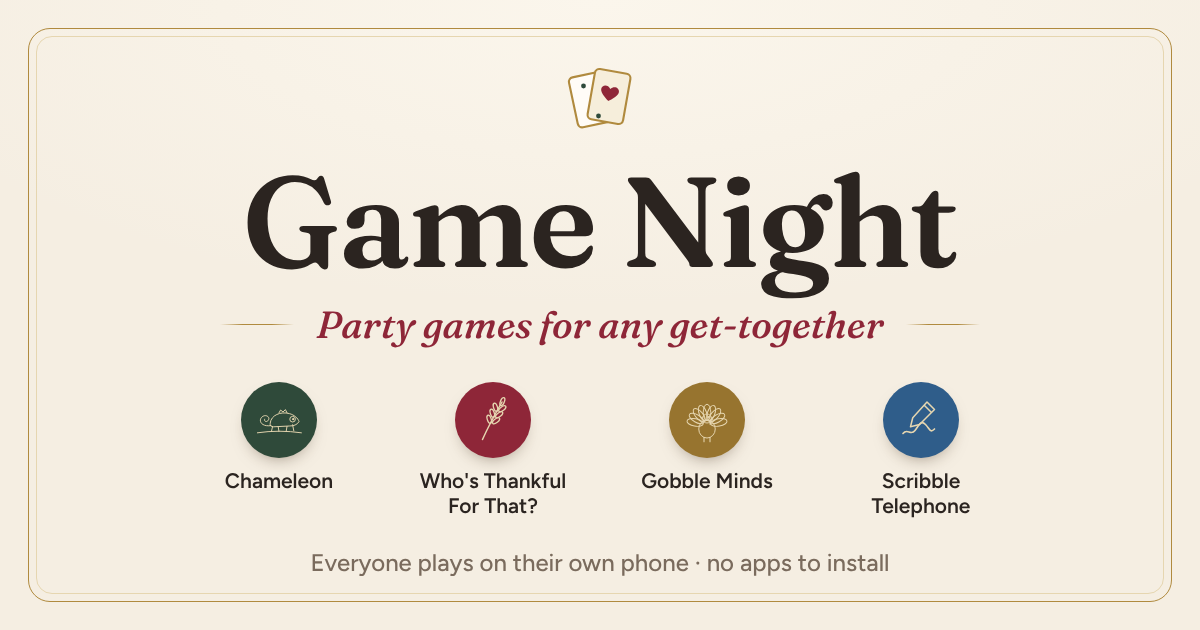
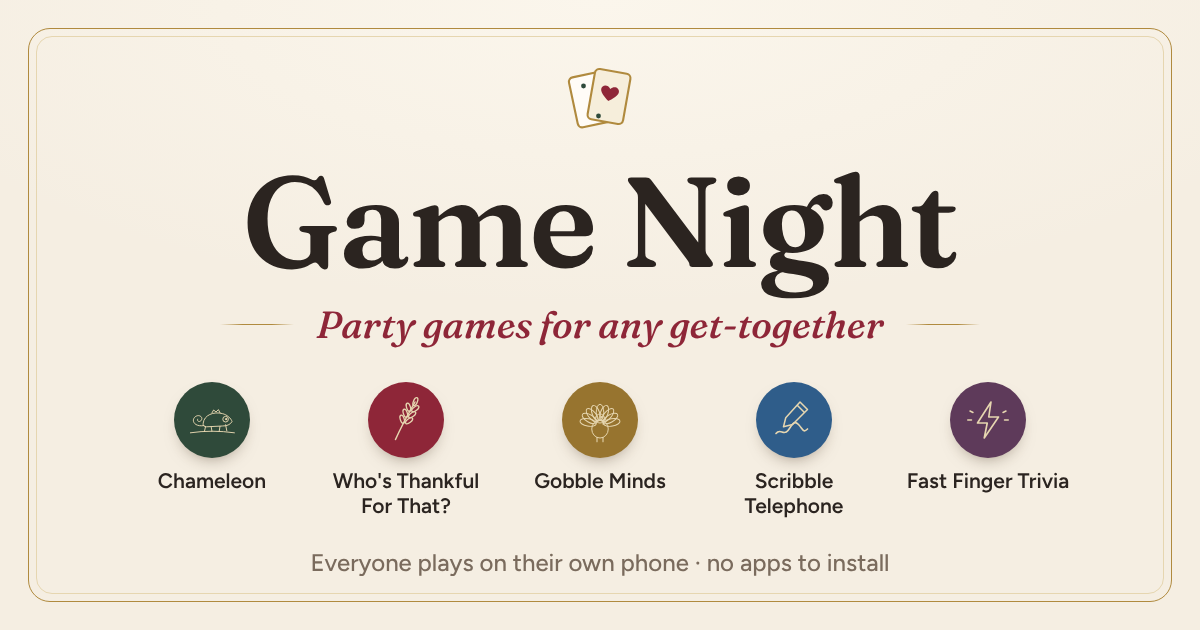
Add Fast Finger Trivia to the menu and share image; update Scribble steps
Claude-Session: https://claude.ai/code/session_019EJvb86wNSFAiyBU6UiAxT

Changed region(s): [[0.1233, 0.6032, 0.8942, 0.8143]]

diff --git a/index.html b/index.html
@@ -17,7 +17,7 @@
 <meta property="og:image" content="https://mburleson33.github.io/games/og.png">
 <meta property="og:image:width" content="1200">
 <meta property="og:image:height" content="630">
-<meta property="og:image:alt" content="Game Night: Chameleon, Who's Thankful For That?, Gobble Minds and Scribble Telephone">
+<meta property="og:image:alt" content="Game Night: Chameleon, Who's Thankful For That?, Gobble Minds, Scribble Telephone and Fast Finger Trivia">
 <meta name="twitter:card" content="summary_large_image">
 <meta name="twitter:title" content="Game Night">
 <meta name="twitter:description" content="Party games for any get-together. Everyone plays on their own phone.">
@@ -158,7 +158,7 @@ details.g li::marker{color:var(--gold);font-family:var(--serif);font-weight:600}
 {
 const $=id=>document.getElementById(id);
 const esc=t=>String(t).replace(/[&<>"']/g,c=>({"&":"&amp;","<":"&lt;",">":"&gt;",'"':"&quot;","'":"&#39;"}[c]));
-const GAMES=[{"name": "Chameleon", "color": "#2f4a3a", "mark": "<svg viewBox=\"0 0 120 84\"><g stroke=\"#e6d6b0\" stroke-width=\"2.4\" stroke-linecap=\"round\" stroke-linejoin=\"round\" fill=\"none\"><path d=\"M6 74 Q60 66 116 74\"/><path d=\"M44 58 L41 71 M58 59 L60 71 M80 58 L78 70 M94 54 L97 69\"/><path d=\"M40 56 C14 60 8 42 18 34 C28 26 40 36 32 44 C28 48 22 45 24 40\"/><path d=\"M38 50 C40 30 64 20 86 26 C98 29 108 38 110 46 C106 54 96 57 86 57 L46 59 C40 59 37 56 38 50Z\"/><path d=\"M60 24 L64 17 L70 22 L76 16 L80 24\"/><circle cx=\"94\" cy=\"40\" r=\"7\"/><\/g><circle cx=\"95.5\" cy=\"40\" r=\"2.8\" fill=\"#e6d6b0\"/><\/svg>", "tag": "Everyone knows the secret word except one bluffer.", "chips": ["3–20 players", "10–20 min", "Everyone's phone"], "steps": ["One person hosts and reads out a 4-letter code. Everyone joins with it.", "Press and hold your card to see the secret word. The chameleon only sees the category.", "Go around the circle giving one-word clues, then point at who you think is bluffing."]}, {"name": "Who's Thankful For That?", "color": "#8e2638", "mark": "<svg viewBox=\"0 0 64 64\"><path d=\"M44 8C36 22 26 40 18 58\" fill=\"none\" stroke=\"#e6d6b0\" stroke-width=\"2\" stroke-linecap=\"round\"/><g fill=\"none\" stroke=\"#e6d6b0\" stroke-width=\"1.8\"><ellipse cx=\"44.5\" cy=\"7.5\" rx=\"2.6\" ry=\"5.6\" transform=\"rotate(22 44.5 7.5)\"/><ellipse cx=\"35.3\" cy=\"15\" rx=\"2.6\" ry=\"5.6\" transform=\"rotate(-18 35.3 15)\"/><ellipse cx=\"44.4\" cy=\"17\" rx=\"2.6\" ry=\"5.6\" transform=\"rotate(52 44.4 17)\"/><ellipse cx=\"31.1\" cy=\"23\" rx=\"2.6\" ry=\"5.6\" transform=\"rotate(-18 31.1 23)\"/><ellipse cx=\"40.2\" cy=\"25\" rx=\"2.6\" ry=\"5.6\" transform=\"rotate(52 40.2 25)\"/><ellipse cx=\"27\" cy=\"31\" rx=\"2.6\" ry=\"5.6\" transform=\"rotate(-18 27 31)\"/><ellipse cx=\"36.1\" cy=\"33\" rx=\"2.6\" ry=\"5.6\" transform=\"rotate(52 36.1 33)\"/><\/g><\/svg>", "tag": "Write what you're thankful for, then guess who wrote each one.", "chips": ["2+ players", "15–25 min", "Everyone's phone", "TV mode"], "steps": ["The host picks a prompt, like \"a small, everyday thing.\"", "Everyone secretly writes one answer on their phone.", "Answers are revealed one at a time. Vote on who wrote it, then hear why it matters to them."]}, {"name": "Gobble Minds", "color": "#97742f", "mark": "<svg viewBox=\"0 0 64 64\"><g stroke=\"#e6d6b0\" stroke-width=\"1.3\" stroke-linejoin=\"round\"><ellipse cx=\"16.2\" cy=\"35.2\" rx=\"5\" ry=\"11\" transform=\"rotate(-80 16.2 35.2)\" fill=\"none\"/><ellipse cx=\"18.1\" cy=\"30.0\" rx=\"5\" ry=\"11\" transform=\"rotate(-60 18.1 30.0)\" fill=\"none\"/><ellipse cx=\"21.7\" cy=\"25.7\" rx=\"5\" ry=\"11\" transform=\"rotate(-40 21.7 25.7)\" fill=\"none\"/><ellipse cx=\"26.5\" cy=\"23.0\" rx=\"5\" ry=\"11\" transform=\"rotate(-20 26.5 23.0)\" fill=\"none\"/><ellipse cx=\"32.0\" cy=\"22.0\" rx=\"5\" ry=\"11\" transform=\"rotate(0 32.0 22.0)\" fill=\"none\"/><ellipse cx=\"37.5\" cy=\"23.0\" rx=\"5\" ry=\"11\" transform=\"rotate(20 37.5 23.0)\" fill=\"none\"/><ellipse cx=\"42.3\" cy=\"25.7\" rx=\"5\" ry=\"11\" transform=\"rotate(40 42.3 25.7)\" fill=\"none\"/><ellipse cx=\"45.9\" cy=\"30.0\" rx=\"5\" ry=\"11\" transform=\"rotate(60 45.9 30.0)\" fill=\"none\"/><ellipse cx=\"47.8\" cy=\"35.2\" rx=\"5\" ry=\"11\" transform=\"rotate(80 47.8 35.2)\" fill=\"none\"/><ellipse cx=\"32\" cy=\"44\" rx=\"11\" ry=\"12\" fill=\"none\"/><circle cx=\"32\" cy=\"30\" r=\"6\" fill=\"none\"/><\/g><path d=\"M37 30l4 1.5-4 1.5z\" fill=\"#e6d6b0\"/><path d=\"M36 33c2 2 2 5 0 6-1-2-1-4 0-6z\" fill=\"#e6d6b0\"/><circle cx=\"34\" cy=\"28\" r=\"1.2\" fill=\"#e6d6b0\"/><path d=\"M28 55v6M36 55v6\" stroke=\"#e6d6b0\" stroke-width=\"1.4\" stroke-linecap=\"round\"/><\/svg>", "tag": "Think like the table, or be the Odd Bird nobody matches.", "chips": ["3+ players", "15–30 min", "Everyone's phone", "TV mode"], "steps": ["The host picks a mode: match the table, or Odd Bird (be the only one).", "Everyone answers the same prompt, like \"Name a pie,\" in secret.", "The host merges matching answers, then scores. Watch out for the turkey!"]}, {"name": "Scribble Telephone", "color": "#2f5d8a", "mark": "<svg viewBox=\"0 0 64 64\"><path d=\"M8 50c6-8 10 4 16-4s8-14 14-8 6 12 12 6\" fill=\"none\" stroke=\"#e6d6b0\" stroke-width=\"2.2\" stroke-linecap=\"round\"/><g stroke=\"#e6d6b0\" stroke-width=\"2\" stroke-linejoin=\"round\" fill=\"none\"><path d=\"M40 8l10 10-20 20-12 3 3-12z\"/><path d=\"M36 12l10 10\"/><\/g><\/svg>", "tag": "Draw it, guess it, pass it on, and watch it all go wrong.", "chips": ["3+ players", "15–25 min", "Everyone's phone", "TV mode"], "steps": ["Everyone writes a short phrase to start their own chain.", "Phones pass each chain along: the next person draws it, the next guesses the drawing.", "The host reveals every chain step by step. Best with a TV!"]}];
+const GAMES=[{"name": "Chameleon", "color": "#2f4a3a", "mark": "<svg viewBox=\"0 0 120 84\"><g stroke=\"#e6d6b0\" stroke-width=\"2.4\" stroke-linecap=\"round\" stroke-linejoin=\"round\" fill=\"none\"><path d=\"M6 74 Q60 66 116 74\"/><path d=\"M44 58 L41 71 M58 59 L60 71 M80 58 L78 70 M94 54 L97 69\"/><path d=\"M40 56 C14 60 8 42 18 34 C28 26 40 36 32 44 C28 48 22 45 24 40\"/><path d=\"M38 50 C40 30 64 20 86 26 C98 29 108 38 110 46 C106 54 96 57 86 57 L46 59 C40 59 37 56 38 50Z\"/><path d=\"M60 24 L64 17 L70 22 L76 16 L80 24\"/><circle cx=\"94\" cy=\"40\" r=\"7\"/><\/g><circle cx=\"95.5\" cy=\"40\" r=\"2.8\" fill=\"#e6d6b0\"/><\/svg>", "tag": "Everyone knows the secret word except one bluffer.", "chips": ["3–20 players", "10–20 min", "Everyone's phone"], "steps": ["One person hosts and reads out a 4-letter code. Everyone joins with it.", "Press and hold your card to see the secret word. The chameleon only sees the category.", "Go around the circle giving one-word clues, then point at who you think is bluffing."]}, {"name": "Who's Thankful For That?", "color": "#8e2638", "mark": "<svg viewBox=\"0 0 64 64\"><path d=\"M44 8C36 22 26 40 18 58\" fill=\"none\" stroke=\"#e6d6b0\" stroke-width=\"2\" stroke-linecap=\"round\"/><g fill=\"none\" stroke=\"#e6d6b0\" stroke-width=\"1.8\"><ellipse cx=\"44.5\" cy=\"7.5\" rx=\"2.6\" ry=\"5.6\" transform=\"rotate(22 44.5 7.5)\"/><ellipse cx=\"35.3\" cy=\"15\" rx=\"2.6\" ry=\"5.6\" transform=\"rotate(-18 35.3 15)\"/><ellipse cx=\"44.4\" cy=\"17\" rx=\"2.6\" ry=\"5.6\" transform=\"rotate(52 44.4 17)\"/><ellipse cx=\"31.1\" cy=\"23\" rx=\"2.6\" ry=\"5.6\" transform=\"rotate(-18 31.1 23)\"/><ellipse cx=\"40.2\" cy=\"25\" rx=\"2.6\" ry=\"5.6\" transform=\"rotate(52 40.2 25)\"/><ellipse cx=\"27\" cy=\"31\" rx=\"2.6\" ry=\"5.6\" transform=\"rotate(-18 27 31)\"/><ellipse cx=\"36.1\" cy=\"33\" rx=\"2.6\" ry=\"5.6\" transform=\"rotate(52 36.1 33)\"/><\/g><\/svg>", "tag": "Write what you're thankful for, then guess who wrote each one.", "chips": ["2+ players", "15–25 min", "Everyone's phone", "TV mode"], "steps": ["The host picks a prompt, like \"a small, everyday thing.\"", "Everyone secretly writes one answer on their phone.", "Answers are revealed one at a time. Vote on who wrote it, then hear why it matters to them."]}, {"name": "Gobble Minds", "color": "#97742f", "mark": "<svg viewBox=\"0 0 64 64\"><g stroke=\"#e6d6b0\" stroke-width=\"1.3\" stroke-linejoin=\"round\"><ellipse cx=\"16.2\" cy=\"35.2\" rx=\"5\" ry=\"11\" transform=\"rotate(-80 16.2 35.2)\" fill=\"none\"/><ellipse cx=\"18.1\" cy=\"30.0\" rx=\"5\" ry=\"11\" transform=\"rotate(-60 18.1 30.0)\" fill=\"none\"/><ellipse cx=\"21.7\" cy=\"25.7\" rx=\"5\" ry=\"11\" transform=\"rotate(-40 21.7 25.7)\" fill=\"none\"/><ellipse cx=\"26.5\" cy=\"23.0\" rx=\"5\" ry=\"11\" transform=\"rotate(-20 26.5 23.0)\" fill=\"none\"/><ellipse cx=\"32.0\" cy=\"22.0\" rx=\"5\" ry=\"11\" transform=\"rotate(0 32.0 22.0)\" fill=\"none\"/><ellipse cx=\"37.5\" cy=\"23.0\" rx=\"5\" ry=\"11\" transform=\"rotate(20 37.5 23.0)\" fill=\"none\"/><ellipse cx=\"42.3\" cy=\"25.7\" rx=\"5\" ry=\"11\" transform=\"rotate(40 42.3 25.7)\" fill=\"none\"/><ellipse cx=\"45.9\" cy=\"30.0\" rx=\"5\" ry=\"11\" transform=\"rotate(60 45.9 30.0)\" fill=\"none\"/><ellipse cx=\"47.8\" cy=\"35.2\" rx=\"5\" ry=\"11\" transform=\"rotate(80 47.8 35.2)\" fill=\"none\"/><ellipse cx=\"32\" cy=\"44\" rx=\"11\" ry=\"12\" fill=\"none\"/><circle cx=\"32\" cy=\"30\" r=\"6\" fill=\"none\"/><\/g><path d=\"M37 30l4 1.5-4 1.5z\" fill=\"#e6d6b0\"/><path d=\"M36 33c2 2 2 5 0 6-1-2-1-4 0-6z\" fill=\"#e6d6b0\"/><circle cx=\"34\" cy=\"28\" r=\"1.2\" fill=\"#e6d6b0\"/><path d=\"M28 55v6M36 55v6\" stroke=\"#e6d6b0\" stroke-width=\"1.4\" stroke-linecap=\"round\"/><\/svg>", "tag": "Think like the table, or be the Odd Bird nobody matches.", "chips": ["3+ players", "15–30 min", "Everyone's phone", "TV mode"], "steps": ["The host picks a mode: match the table, or Odd Bird (be the only one).", "Everyone answers the same prompt, like \"Name a pie,\" in secret.", "The host merges matching answers, then scores. Watch out for the turkey!"]}, {"name": "Scribble Telephone", "color": "#2f5d8a", "mark": "<svg viewBox=\"0 0 64 64\"><path d=\"M8 50c6-8 10 4 16-4s8-14 14-8 6 12 12 6\" fill=\"none\" stroke=\"#e6d6b0\" stroke-width=\"2.2\" stroke-linecap=\"round\"/><g stroke=\"#e6d6b0\" stroke-width=\"2\" stroke-linejoin=\"round\" fill=\"none\"><path d=\"M40 8l10 10-20 20-12 3 3-12z\"/><path d=\"M36 12l10 10\"/><\/g><\/svg>", "tag": "Draw it, guess it, pass it on, and watch it all go wrong.", "chips": ["3+ players", "15–25 min", "Everyone's phone", "TV mode"], "steps": ["Everyone writes a short phrase to start their own chain.", "Phones pass each chain along: the next person draws it, the next guesses the drawing.", "Each person reveals their own chain, then everyone votes for a favorite. Play 1–3 rounds."]}, {"name": "Fast Finger Trivia", "color": "#5e3a5a", "mark": "<svg viewBox=\"0 0 64 64\"><path d=\"M36 8 L18 36 h13 l-4 20 l19-28 h-13 z\" fill=\"none\" stroke=\"#e6d6b0\" stroke-width=\"2.2\" stroke-linejoin=\"round\"/><path d=\"M12 22l-4-2M10 32H5M52 22l4-2M54 32h5\" stroke=\"#e6d6b0\" stroke-width=\"2\" stroke-linecap=\"round\"/><\/svg>", "tag": "Know it? Tap it fast. Right answers score, and faster right answers score more.", "chips": ["2+ players", "10–20 min", "Everyone's phone", "TV mode"], "steps": ["The host picks categories: Bible, holidays, food, geography, science, history, sports, or movies & games.", "A question pops up on every phone with four answers. Tap the right one fast for up to 1,000 points.", "Build a streak for bonus points. Most points after the last question wins."]}];
 const chev='<svg class="chev" viewBox="0 0 18 18" aria-hidden="true"><path d="M4 7l5 5 5-5" fill="none" stroke="#2f4a3a" stroke-width="1.8" stroke-linecap="round" stroke-linejoin="round"/></svg>';
 $("games").innerHTML=GAMES.map(g=>`<details class="g"><summary><span class="dot" style="background:${g.color}" aria-hidden="true">${g.mark}</span><span><b>${esc(g.name)}</b><span class="t">${esc(g.tag)}</span></span>${chev}</summary><div class="body"><div class="chips">${g.chips.map(c=>`<span>${esc(c)}</span>`).join("")}</div><ol>${g.steps.map(s=>`<li>${esc(s)}</li>`).join("")}</ol></div></details>`).join("");
 
